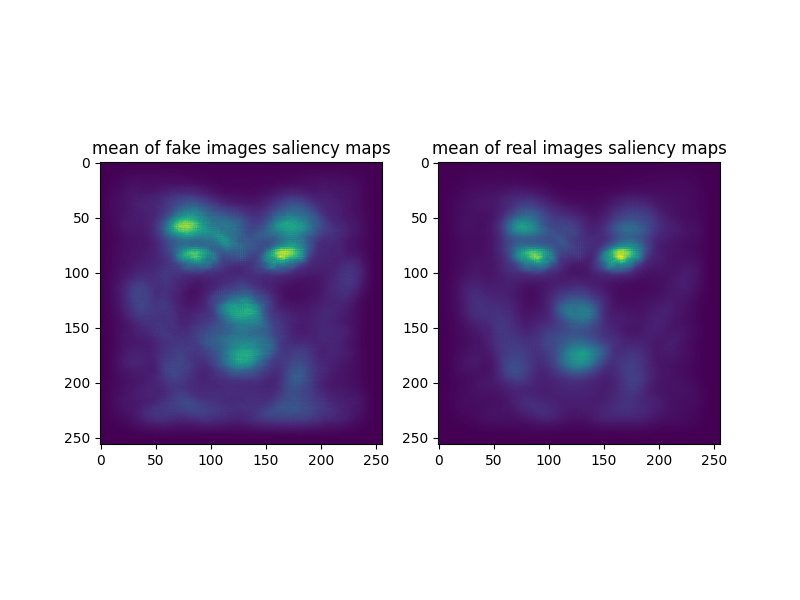
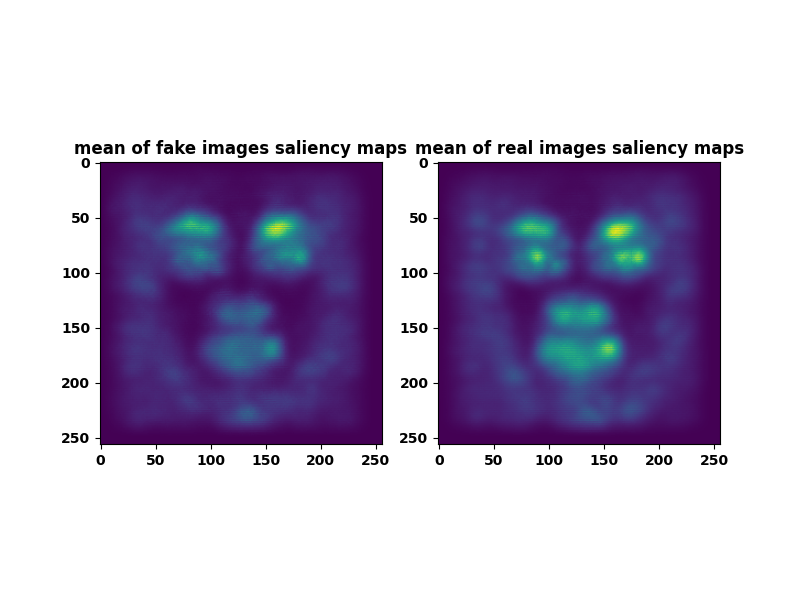
sliency_maps :: function update & figures

diff --git a/project/solution/saliency_map.py b/project/solution/saliency_map.py
@@ -62,7 +62,15 @@ def compute_gradient_saliency_maps(samples: torch.tensor,
         shape Bx256x256 where B is the number of images in samples.
     """
     """INSERT YOUR CODE HERE, overrun return."""
-    return torch.rand(6, 256, 256)
+    samples.requires_grad_(True)
+    outputs = model(samples)
+    gathered_scores = outputs.gather(1, true_labels.view(-1, 1)).squeeze()
+    gathered_scores.backward(torch.ones_like(gathered_scores))
+    gradients = samples.grad
+    abs_gradients = torch.abs(gradients)
+    saliency, _ = torch.max(abs_gradients, dim=1)
+
+    return saliency
 
 
 def main():  # pylint: disable=R0914, R0915
